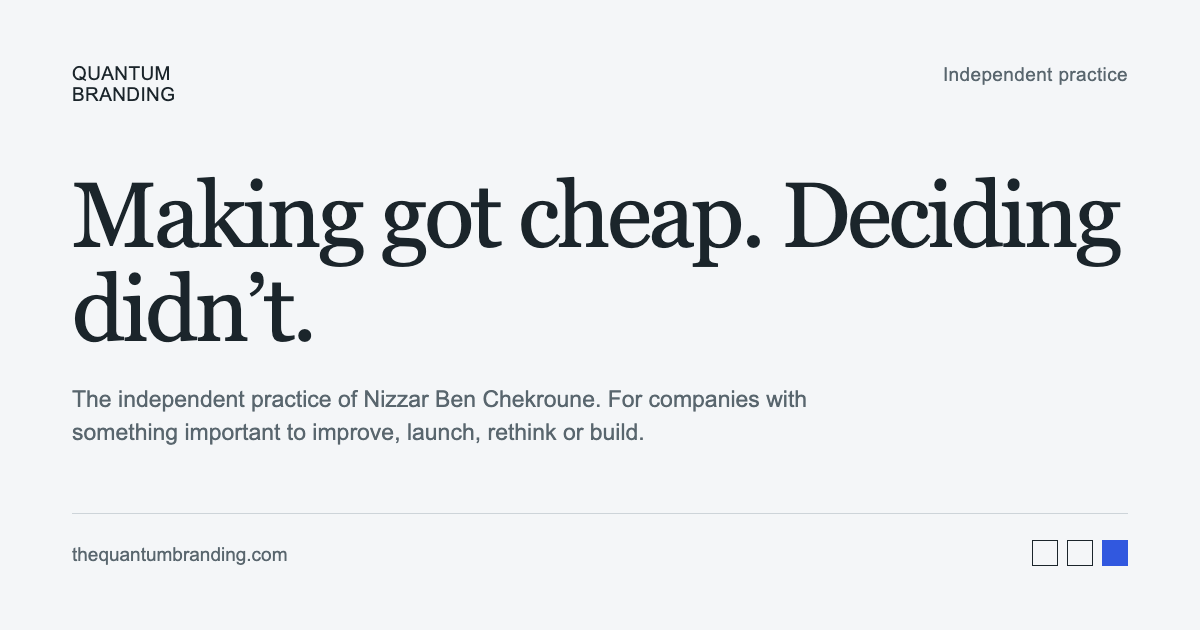
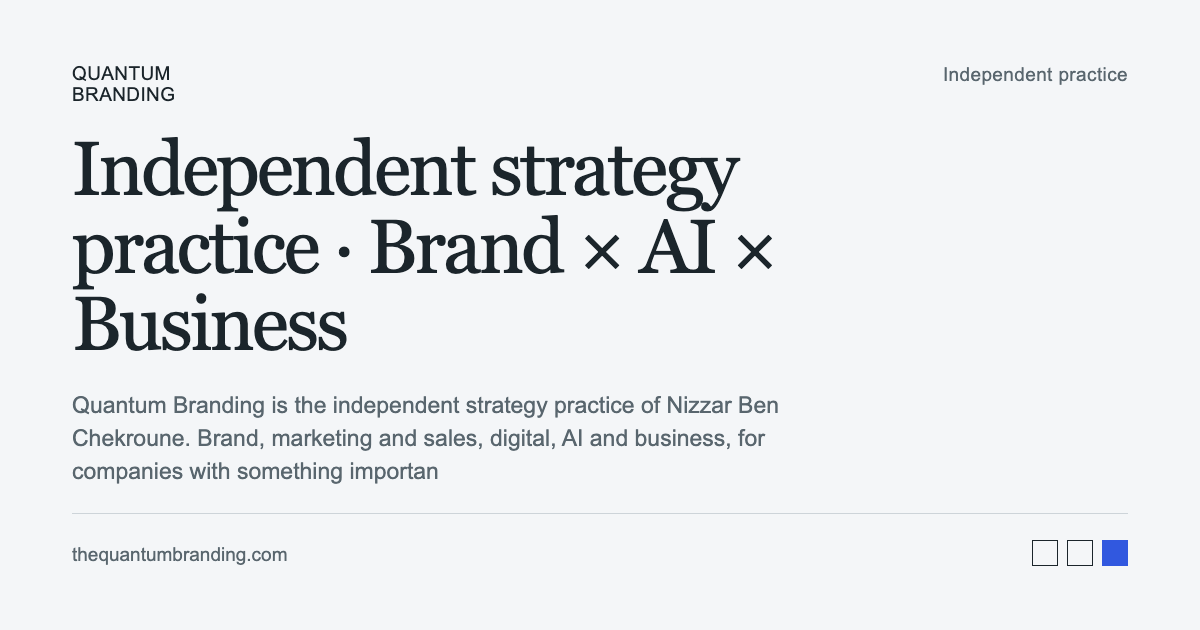
Homepage clarity pass: say what the practice is before the thesis
Owner brief, 3 October 2026. Clarity first, depth second.

Hero: "Quantum Branding · An independent strategy practice", "Strategy
across Brand × AI × Business.", the practice named as Nizzar Ben
Chekroune's, the value line (see what is true, decide what matters,
make it real), the five areas, then Start a project and See the work.

New order: hero, the six territories, selected work, the thesis
("Making got cheap. Deciding didn't."), How I work (The Collapse, with
the four panels moved here from the hero), Behind the practice (Nizzar,
then Perceptual Composition linking to nizzar.com), From the Lab
(BrandOS), Thinking, contact fork.

- /practice/method and /about each gain one sentence on Perceptual
  Composition and a link to the canonical page on nizzar.com.
- Organization and Person descriptions updated in the structured data.
- Home sharing images regenerated for the new title.
- Mobile: section headings with a standfirst no longer right-align.
- Tests lock the new hero hierarchy and homepage order; the motion test
  settles the scroll before measuring the panels in their new place.
- New editorial baseline editorial-2026-10-03-clarity.json. It also
  absorbs the owner-approved 27-29 Sept identity commits (#1, #4) that
  the 14 Sept baseline predated. The old fixture is kept as history.

Changed region(s): [[0.0617, 0.2111, 0.9558, 0.573], [0.0617, 0.6032, 0.6783, 0.7841]]

diff --git a/index.html b/index.html
@@ -3,8 +3,8 @@
 <head>
 <meta charset="utf-8">
 <meta name="viewport" content="width=device-width,initial-scale=1">
-<title>Quantum Branding — Making got cheap. Deciding didn’t.</title>
-<meta name="description" content="The independent practice of Nizzar Ben Chekroune. For companies with something important to improve, launch, rethink or build.">
+<title>Quantum Branding — Independent strategy practice · Brand × AI × Business</title>
+<meta name="description" content="Quantum Branding is the independent strategy practice of Nizzar Ben Chekroune. Brand, marketing and sales, digital, AI and business, for companies with something important to improve, launch, rethink or build.">
 <meta name="author" content="Nizzar Ben Chekroune">
 <meta name="theme-color" content="#f4f6f8">
 <link rel="canonical" href="https://thequantumbranding.com/">
@@ -13,20 +13,20 @@
 <link rel="alternate" hreflang="x-default" href="https://thequantumbranding.com/">
 <meta property="og:type" content="website">
 <meta property="og:site_name" content="Quantum Branding">
-<meta property="og:title" content="Quantum Branding — Making got cheap. Deciding didn’t.">
-<meta property="og:description" content="The independent practice of Nizzar Ben Chekroune. For companies with something important to improve, launch, rethink or build.">
+<meta property="og:title" content="Quantum Branding — Independent strategy practice · Brand × AI × Business">
+<meta property="og:description" content="Quantum Branding is the independent strategy practice of Nizzar Ben Chekroune. Brand, marketing and sales, digital, AI and business, for companies with something important to improve, launch, rethink or build.">
 <meta property="og:url" content="https://thequantumbranding.com/">
 <meta property="og:image" content="https://thequantumbranding.com/og/en-home.png">
 <meta property="og:image:width" content="1200">
 <meta property="og:image:height" content="630">
-<meta property="og:image:alt" content="Making got cheap. Deciding didn’t. · Quantum Branding">
+<meta property="og:image:alt" content="Independent strategy practice · Brand × AI × Business · Quantum Branding">
 <meta property="og:locale" content="en_US">
 <meta property="og:locale:alternate" content="fr_FR">
 <meta name="twitter:card" content="summary_large_image">
-<meta name="twitter:title" content="Quantum Branding — Making got cheap. Deciding didn’t.">
-<meta name="twitter:description" content="The independent practice of Nizzar Ben Chekroune. For companies with something important to improve, launch, rethink or build.">
+<meta name="twitter:title" content="Quantum Branding — Independent strategy practice · Brand × AI × Business">
+<meta name="twitter:description" content="Quantum Branding is the independent strategy practice of Nizzar Ben Chekroune. Brand, marketing and sales, digital, AI and business, for companies with something important to improve, launch, rethink or build.">
 <meta name="twitter:image" content="https://thequantumbranding.com/og/en-home.png">
-<meta name="twitter:image:alt" content="Making got cheap. Deciding didn’t. · Quantum Branding">
+<meta name="twitter:image:alt" content="Independent strategy practice · Brand × AI × Business · Quantum Branding">
 <link rel="icon" href="/favicon.svg" type="image/svg+xml">
 <link rel="preload" as="font" type="font/ttf" href="/assets/fonts/instrument-serif-latin-400-normal.ttf" crossorigin>
 <link rel="preload" as="font" type="font/ttf" href="/assets/fonts/dm-sans-latin-variable-normal.ttf" crossorigin>
@@ -34,7 +34,7 @@
 <link rel="stylesheet" href="/assets/visual-restoration.css">
 <link rel="stylesheet" href="/assets/kinetic.css">
 <link rel="stylesheet" href="/assets/studio.css">
-<script type="application/ld+json">{"@context":"https://schema.org","@graph":[{"@type":"Organization","@id":"https://thequantumbranding.com/#organization","name":"Quantum Branding","alternateName":"The Quantum Branding","description":"Independent founder-led practice of Nizzar Ben Chekroune across Brand × AI × Business.","foundingDate":"2024","url":"https://thequantumbranding.com","sameAs":["https://www.linkedin.com/company/thequantumbranding/"],"knowsAbout":["Brand & Positioning","Marketing & Sales","Digital & Experience","AI & Intelligent Systems","AI Training & Adoption","Business & Opportunity"],"email":"me@qtmbg.com","founder":{"@id":"https://nizzar.com/#person"},"knowsLanguage":["en","fr"],"slogan":"Making got cheap. Deciding didn’t."},{"@type":"Person","@id":"https://nizzar.com/#person","name":"Nizzar Ben Chekroune","alternateName":["Nizzar","thenizzar"],"jobTitle":"Brand Strategist","url":"https://nizzar.com","worksFor":{"@id":"https://thequantumbranding.com/#organization"},"sameAs":["https://www.linkedin.com/in/nizzar/","https://instagram.com/thenizzar","https://sessionize.com/nizzar/","https://www.imdb.com/name/nm8517643/"],"subjectOf":{"@type":"CreativeWork","url":"https://artsandculture.google.com/story/meet-the-judges-of-the-global-design-graduate-show-global-design-graduate-show/IAUxkXdAFpJIsA?hl=en"}},{"@type":"SoftwareApplication","@id":"https://quantumbranding.ai/#software","name":"BrandOS","alternateName":"BrandOS by Quantum Branding","applicationCategory":"BusinessApplication","operatingSystem":"Web","url":"https://quantumbranding.ai","publisher":{"@id":"https://thequantumbranding.com/#organization"}},{"@type":"WebPage","@id":"https://thequantumbranding.com/#page","name":"Making got cheap. Deciding didn’t.","headline":"Making got cheap. Deciding didn’t.","description":"The independent practice of Nizzar Ben Chekroune. For companies with something important to improve, launch, rethink or build.","url":"https://thequantumbranding.com/","inLanguage":"en","isPartOf":{"@type":"WebSite","@id":"https://thequantumbranding.com/#website","name":"Quantum Branding","url":"https://thequantumbranding.com"},"image":"https://thequantumbranding.com/og/en-home.png","publisher":{"@id":"https://thequantumbranding.com/#organization"}}]}</script>
+<script type="application/ld+json">{"@context":"https://schema.org","@graph":[{"@type":"Organization","@id":"https://thequantumbranding.com/#organization","name":"Quantum Branding","alternateName":"The Quantum Branding","description":"Independent strategy practice of Nizzar Ben Chekroune across Brand × AI × Business: brand and positioning, marketing and sales, digital and experience, AI, and business.","foundingDate":"2024","url":"https://thequantumbranding.com","sameAs":["https://www.linkedin.com/company/thequantumbranding/"],"knowsAbout":["Brand & Positioning","Marketing & Sales","Digital & Experience","AI & Intelligent Systems","AI Training & Adoption","Business & Opportunity"],"email":"me@qtmbg.com","founder":{"@id":"https://nizzar.com/#person"},"knowsLanguage":["en","fr"],"slogan":"Making got cheap. Deciding didn’t."},{"@type":"Person","@id":"https://nizzar.com/#person","name":"Nizzar Ben Chekroune","alternateName":["Nizzar","thenizzar"],"jobTitle":"Brand Strategist","description":"Brand Strategist and founder of Quantum Branding, working across Brand × AI × Business. His way of working is Perceptual Composition.","url":"https://nizzar.com","worksFor":{"@id":"https://thequantumbranding.com/#organization"},"sameAs":["https://www.linkedin.com/in/nizzar/","https://instagram.com/thenizzar","https://sessionize.com/nizzar/","https://www.imdb.com/name/nm8517643/"],"subjectOf":{"@type":"CreativeWork","url":"https://artsandculture.google.com/story/meet-the-judges-of-the-global-design-graduate-show-global-design-graduate-show/IAUxkXdAFpJIsA?hl=en"}},{"@type":"SoftwareApplication","@id":"https://quantumbranding.ai/#software","name":"BrandOS","alternateName":"BrandOS by Quantum Branding","applicationCategory":"BusinessApplication","operatingSystem":"Web","url":"https://quantumbranding.ai","publisher":{"@id":"https://thequantumbranding.com/#organization"}},{"@type":"WebPage","@id":"https://thequantumbranding.com/#page","name":"Independent strategy practice · Brand × AI × Business","headline":"Independent strategy practice · Brand × AI × Business","description":"Quantum Branding is the independent strategy practice of Nizzar Ben Chekroune. Brand, marketing and sales, digital, AI and business, for companies with something important to improve, launch, rethink or build.","url":"https://thequantumbranding.com/","inLanguage":"en","isPartOf":{"@type":"WebSite","@id":"https://thequantumbranding.com/#website","name":"Quantum Branding","url":"https://thequantumbranding.com"},"image":"https://thequantumbranding.com/og/en-home.png","publisher":{"@id":"https://thequantumbranding.com/#organization"}}]}</script>
 <script type="module" src="/app.js" defer></script>
 <script type="module" src="/assets/motion.mjs"></script>
 </head>
@@ -51,7 +51,7 @@
 </header>
 <main id="main">
 
-<section class="hero wrap"><h1>Making got cheap.<br><em>Deciding didn’t.</em></h1><p class="hero-description">For companies with something important to improve, launch, rethink or build.</p><a class="button" href="/start">Tell me what needs to change</a><div class="visual-scene process-gallery" aria-hidden="true"><div class="process-card process-0" data-process="0"><span class="process-index">01</span><div class="process-study"><div class="type-study"><span>Aa</span><span>Aa</span><span>Aa</span></div></div><span class="process-title">Observe</span><span class="process-arrow">↗</span></div><div class="process-card process-1 is-selected" data-process="1"><span class="process-index">02</span><div class="process-study"><div class="decision-study"><i style="--i:0"></i><i style="--i:1"></i><i style="--i:2"></i><i style="--i:3"></i><i style="--i:4"></i><i style="--i:5"></i><i style="--i:6"></i><i style="--i:7"></i><i style="--i:8"></i></div></div><span class="process-title">Collapse</span><span class="process-arrow">↗</span></div><div class="process-card process-2" data-process="2"><span class="process-index">03</span><div class="process-study"><div class="build-study"><i style="--i:0"></i><i style="--i:1"></i><i style="--i:2"></i><i style="--i:3"></i><i style="--i:4"></i><i style="--i:5"></i></div></div><span class="process-title">Build</span><span class="process-arrow">↗</span></div><div class="process-card process-3" data-process="3"><span class="process-index">04</span><div class="process-study"><div class="hold-study"><i style="--i:0"></i><i style="--i:1"></i><i style="--i:2"></i><i style="--i:3"></i><i style="--i:4"></i><i style="--i:5"></i><i style="--i:6"></i><i style="--i:7"></i></div></div><span class="process-title">Hold</span><span class="process-arrow">↗</span></div></div></section><figure class="collapse-stage wrap"><div class="collapse-geometry" aria-hidden="true"><span class="state s1"></span><span class="state s2"></span><span class="state s3"></span><span class="state s4"></span><span class="state chosen"></span></div><figcaption class="collapse-caption"><p>Many plausible directions. One deliberate choice. That passage has a name: Observe, Collapse, Build, Hold.</p><a class="text-link" href="/practice/method">The Collapse</a></figcaption></figure><section class="section wrap "><div class="split"><h2>Judgment, then execution.</h2><div class="prose"><p>I’m Nizzar. I connect patterns across brand, business and technology, choose a direction with you, then build what the decision requires.</p><p>I build with AI. Production is fast now. The question before production is worth more than it has ever been: what deserves to exist here.</p><p>Before you commit, your company is several plausible companies at once. The premium one. The playful one. The technical one. At 2am they all look right. The collapse is choosing one and holding it. The one that survives your market, your competitors and your own attention.</p><a class="text-link" href="/practice">How I work</a></div></div></section><section class="section wrap "><div class="section-heading"><h2>Decisions, made tangible.</h2><a class="text-link" href="/work">Explore the work</a></div><div class="case-grid"><a class="case-card" href="/work/selvaggi"><div class="case-art visual-selvaggi"><div class="case-decoration" aria-hidden="true"><span>S</span></div><span class="case-name">Selvaggi</span></div><div class="case-info"><p class="eyebrow">Brand · Digital · Commercial</p><h3>Selvaggi</h3><p>A contractor that builds inside working hospitals. The brand said none of it.</p><span class="text-link">Read the case ↗</span></div></a><a class="case-card" href="/work/verne-jewels"><div class="case-art visual-verne"><div class="case-decoration" aria-hidden="true"><i></i><i></i></div><span class="case-name">Verne Jewels</span></div><div class="case-info"><p class="eyebrow">Strategy · Jewelry</p><h3>Verne Jewels</h3><p>Beautiful images where you could not see the jewellery.</p><span class="text-link">Read the case ↗</span></div></a></div><p class="field-hint">A professional history beginning in 2008.</p><p>USAID · UNIDO · Audi · TV5 Monde · UM6P · The New York Times · TIME · Google Arts &amp; Culture · Los Angeles Lakers</p></section><section class="section wrap "><div class="section-heading"><h2>The Collapse</h2><p>A method for moving from plausible directions to a choice you can build and hold.</p></div><p class="eyebrow">OBSERVE. COLLAPSE. BUILD. HOLD.</p><div class="method-grid"><article><div class="method-mark mark-0" aria-hidden="true"><b>01</b><span></span><span></span><span></span></div><h3>Observe</h3><p>Look at what happens. Listen to customers, examine the work and separate evidence from assumptions.</p></article><article><div class="method-mark mark-1" aria-hidden="true"><b>02</b><span></span><span></span><span></span></div><h3>Collapse</h3><p>Choose the direction that deserves to exist. Make the trade-off explicit and agree on what success will look like.</p></article><article><div class="method-mark mark-2" aria-hidden="true"><b>03</b><span></span><span></span><span></span></div><h3>Build</h3><p>Turn the decision into something people can use: a brand, a website, a commercial system or a working tool.</p></article><article><div class="method-mark mark-3" aria-hidden="true"><b>04</b><span></span><span></span><span></span></div><h3>Hold</h3><p>Put the work in use. Watch what holds. Adjust what moves. Leave the team a basis for the next decision.</p></article></div><a class="text-link" href="/practice/method">Read the method</a></section><section class="section wrap "><div class="section-heading"><h2>Thinking that changes the work.</h2><a class="text-link" href="/thinking">All essays</a></div><div class="essay-list"><a href="/thinking/the-collapse"><article><span class="essay-number">01</span><h3>The Collapse</h3><p>Observe, Collapse, Build, Hold: a method for turning plausible directions into a decision a business can carry.</p><span class="text-link">Read the essay</span></article></a><a href="/thinking/the-brief-before-the-brief"><article><span class="essay-number">02</span><h3>The Brief Before the Brief</h3><p>The questions that should precede a request for a new identity, website, campaign or AI workflow.</p><span class="text-link">Read the essay</span></article></a></div></section><section class="section wrap "><a class="text-link" href="/start">See how engagements start ↗</a></section><section class="section wrap closing-fork"><div class="section-heading"><h2>What needs to change?</h2><p>Start with where you are. I will help define the next move.</p></div><div class="fork"><a class="fork-option" href="mailto:me@qtmbg.com"><h2>I know what I need.</h2><p>A clear project. Tell me the result, the scope and the timing.</p><span class="text-link">Tell me about your project</span></a><a class="fork-option" href="/start"><h2>Something needs to change.</h2><p>Describe what is happening. We can work out the right starting point together.</p><span class="text-link">Find my starting point</span></a></div></section>
+<section class="hero wrap"><p class="eyebrow hero-eyebrow">Quantum Branding · An independent strategy practice</p><h1>Strategy across<br><em>Brand × AI × Business.</em></h1><p class="hero-description">Quantum Branding is the independent practice of Nizzar Ben Chekroune. I help companies see what is true, decide what matters and make it real.</p><p class="hero-areas">Brand · Marketing &amp; Sales · Digital · AI · Business</p><a class="button" href="/start">Start a project</a><a class="button secondary" href="/work">See the work</a></section><section class="section wrap home-territories"><div class="section-heading"><h2>What I work on.</h2><p>Six areas. Most projects start in one and touch several.</p></div><div class="history-list"><article class="visual-territory"><div class="territory-object" aria-hidden="true"><span>01</span><i></i></div><h3>Brand & Positioning</h3><p>Choose the position, narrative and identity that express where the business is going.</p></article><article class="visual-territory"><div class="territory-object" aria-hidden="true"><span>02</span><i></i></div><h3>Marketing & Sales</h3><p>Clarify the offer and the path from interest to a commercial decision.</p></article><article class="visual-territory"><div class="territory-object" aria-hidden="true"><span>03</span><i></i></div><h3>Digital & Experience</h3><p>Build a website, journey or product around what people need to do.</p></article><article class="visual-territory"><div class="territory-object" aria-hidden="true"><span>04</span><i></i></div><h3>AI & Intelligent Systems</h3><p>Improve a workflow with an automation, an internal tool or a useful prototype.</p></article><article class="visual-territory"><div class="territory-object" aria-hidden="true"><span>05</span><i></i></div><h3>AI Training & Adoption</h3><p>Help leaders and teams make practical choices about AI in their own work.</p></article><article class="visual-territory"><div class="territory-object" aria-hidden="true"><span>06</span><i></i></div><h3>Business & Opportunity</h3><p>Investigate a market, a model or a possibility before committing resources.</p></article></div><a class="text-link" href="/practice">How the practice works</a></section><section class="section wrap "><div class="section-heading"><h2>Decisions, made tangible.</h2><a class="text-link" href="/work">Explore the work</a></div><div class="case-grid"><a class="case-card" href="/work/selvaggi"><div class="case-art visual-selvaggi"><div class="case-decoration" aria-hidden="true"><span>S</span></div><span class="case-name">Selvaggi</span></div><div class="case-info"><p class="eyebrow">Brand · Digital · Commercial</p><h3>Selvaggi</h3><p>A contractor that builds inside working hospitals. The brand said none of it.</p><span class="text-link">Read the case ↗</span></div></a><a class="case-card" href="/work/verne-jewels"><div class="case-art visual-verne"><div class="case-decoration" aria-hidden="true"><i></i><i></i></div><span class="case-name">Verne Jewels</span></div><div class="case-info"><p class="eyebrow">Strategy · Jewelry</p><h3>Verne Jewels</h3><p>Beautiful images where you could not see the jewellery.</p><span class="text-link">Read the case ↗</span></div></a></div><p class="field-hint">More than two decades across brand, marketing and emerging technology.</p><p>USAID · UNIDO · Audi · TV5 Monde · UM6P · The New York Times · TIME · Google Arts &amp; Culture · Los Angeles Lakers</p></section><section class="section wrap "><div class="split thesis"><h2>Making got cheap.<br><em>Deciding didn’t.</em></h2><div class="prose"><p>I build with AI. Production is fast now. The question before production is worth more than it has ever been: what deserves to exist here.</p><p>Before you commit, your company is several plausible companies at once. The premium one. The playful one. The technical one. At 2am they all look right. The collapse is choosing one and holding it. The one that survives your market, your competitors and your own attention.</p></div></div></section><section class="section wrap home-method"><div class="section-heading"><h2>How I work.</h2><p>The Collapse. A method for moving from plausible directions to a choice you can build and hold.</p></div><div class="method-stage"><div class="visual-scene process-gallery" aria-hidden="true"><div class="process-card process-0" data-process="0"><span class="process-index">01</span><div class="process-study"><div class="type-study"><span>Aa</span><span>Aa</span><span>Aa</span></div></div><span class="process-title">Observe</span><span class="process-arrow">↗</span></div><div class="process-card process-1 is-selected" data-process="1"><span class="process-index">02</span><div class="process-study"><div class="decision-study"><i style="--i:0"></i><i style="--i:1"></i><i style="--i:2"></i><i style="--i:3"></i><i style="--i:4"></i><i style="--i:5"></i><i style="--i:6"></i><i style="--i:7"></i><i style="--i:8"></i></div></div><span class="process-title">Collapse</span><span class="process-arrow">↗</span></div><div class="process-card process-2" data-process="2"><span class="process-index">03</span><div class="process-study"><div class="build-study"><i style="--i:0"></i><i style="--i:1"></i><i style="--i:2"></i><i style="--i:3"></i><i style="--i:4"></i><i style="--i:5"></i></div></div><span class="process-title">Build</span><span class="process-arrow">↗</span></div><div class="process-card process-3" data-process="3"><span class="process-index">04</span><div class="process-study"><div class="hold-study"><i style="--i:0"></i><i style="--i:1"></i><i style="--i:2"></i><i style="--i:3"></i><i style="--i:4"></i><i style="--i:5"></i><i style="--i:6"></i><i style="--i:7"></i></div></div><span class="process-title">Hold</span><span class="process-arrow">↗</span></div></div></div><p class="method-caption">Observe what happens. Collapse many plausible directions into one choice. Build what the decision requires. Hold it in use.</p><a class="text-link" href="/practice/method">Read the method</a></section><section class="section wrap "><div class="split"><h2>Behind<br>the practice.</h2><div class="prose"><p>I’m Nizzar Ben Chekroune, a brand strategist and the founder of Quantum Branding. I connect patterns across brand, business and technology, choose a direction with you, then build what the decision requires. You work directly with me.</p><p>The practice is informed by Perceptual Composition, my way of seeing what is true, deciding what matters and turning perception into form.</p><p class="triad" lang="en">See what is true.<br>Decide what matters.<br>Make it real.</p><p class="link-row"><a class="text-link" href="https://nizzar.com/perceptual-composition">Explore Perceptual Composition</a><a class="text-link" href="/about">About Nizzar</a></p></div></div></section><section class="section wrap "><div class="split"><h2>From<br>the Lab.</h2><div class="prose"><p>I also build instruments, in Quantum Lab. BrandOS is the main one: a brand intelligence product. Idea in, brand out.</p><p class="link-row"><a class="text-link" href="https://quantumbranding.ai">Explore BrandOS</a><a class="text-link" href="/lab">Visit the Lab</a></p></div></div></section><section class="section wrap "><div class="section-heading"><h2>Thinking that changes the work.</h2><a class="text-link" href="/thinking">All essays</a></div><div class="essay-list"><a href="/thinking/the-collapse"><article><span class="essay-number">01</span><h3>The Collapse</h3><p>Observe, Collapse, Build, Hold: a method for turning plausible directions into a decision a business can carry.</p><span class="text-link">Read the essay</span></article></a><a href="/thinking/the-brief-before-the-brief"><article><span class="essay-number">02</span><h3>The Brief Before the Brief</h3><p>The questions that should precede a request for a new identity, website, campaign or AI workflow.</p><span class="text-link">Read the essay</span></article></a></div></section><section class="section wrap closing-fork"><div class="section-heading"><h2>What needs to change?</h2><p>Start with where you are. I will help define the next move.</p></div><div class="fork"><a class="fork-option" href="mailto:me@qtmbg.com"><h2>I know what I need.</h2><p>A clear project. Tell me the result, the scope and the timing.</p><span class="text-link">Tell me about your project</span></a><a class="fork-option" href="/start"><h2>Something needs to change.</h2><p>Describe what is happening. We can work out the right starting point together.</p><span class="text-link">Find my starting point</span></a></div></section>
 </main>
 <footer class="site-footer">
 <p class="footer-author">Quantum Branding<br>Nizzar Ben Chekroune</p>

diff --git a/assets/studio.css b/assets/studio.css
@@ -128,3 +128,19 @@
  .process-card{transition:none!important}.process-gallery{cursor:default}
 }
 @media print{.process-gallery,.brief-preview,.signal-preview,.brand-preview{display:none!important}.hero{display:block}.method-mark b,.territory-object span{color:var(--ink)}.lab-card,.lab-card:first-child{background:none;color:var(--ink)}.lab-card .text-link{background:none}.hero h1{font-size:56pt}.wordmark-symbol{display:none}}
+/* October 3: clarity pass. The hero says what the practice is before any thesis or method. */
+.hero{grid-template-rows:auto auto auto auto;row-gap:18px}
+.hero .hero-eyebrow{grid-column:1/-1;grid-row:1;text-align:center;margin:0;font-size:14px;color:var(--muted)}
+.hero h1{grid-row:2}.hero h1 em{color:var(--blue)}
+.hero .hero-description{grid-column:1;grid-row:3;margin-top:22px}
+.hero .hero-areas{grid-column:1;grid-row:4;margin:0;font-size:15px;font-weight:500;letter-spacing:-.01em}
+.hero>.button{grid-column:2;grid-row:3;align-self:end;justify-self:end;margin-top:22px}
+.hero>.button.secondary{grid-row:4;align-self:start;margin-top:0;background:transparent;color:var(--ink);border:1px solid var(--ink)}
+.hero>.button.secondary:hover{background:var(--ink);color:var(--paper)}
+.thesis h2 em{font:inherit;color:var(--blue);letter-spacing:inherit}
+.method-stage .visual-scene.process-gallery{margin:10px 0 0}
+.method-caption{max-width:760px;margin:28px 0 22px;font-size:18px;line-height:1.55}
+.prose .triad{font:500 clamp(26px,2.4vw,34px)/1.2 var(--sans);letter-spacing:-.03em;margin:28px 0}
+.link-row{display:flex;flex-wrap:wrap;gap:14px 28px}
+@media(max-width:800px){.hero>.button{justify-self:start}.section-heading{align-items:flex-start}}
+@media(max-width:540px){.hero .hero-eyebrow{text-align:left;font-size:12px;margin:0 0 14px}.hero .hero-description{margin:22px 0 12px}.hero .hero-areas{font-size:14px;margin:0 0 20px}.hero>.button{align-self:flex-start}.hero>.button.secondary{margin-top:10px}.method-caption{font-size:16px}.prose .triad{font-size:26px}}

diff --git a/CLAUDE.md b/CLAUDE.md
@@ -3,6 +3,25 @@
 The practice website for Nizzar Ben Chekroune. Static, bilingual, generated
 from `src/` into `dist/`. Read `README.md` for the build and the file layout.
 
+## Homepage clarity pass, 3 October 2026 (owner brief)
+
+Clarity first, depth second. The homepage reads in this order and the tests lock it:
+1. Hero: what the practice is (independent strategy practice), the territory
+   (Brand × AI × Business), Nizzar named as the person behind it, the value line
+   ("I help companies see what is true, decide what matters and make it real"),
+   the five areas, then two actions (Start a project, See the work).
+2. The six territories. 3. Selected work and references.
+4. The thesis: "Making got cheap. Deciding didn't." It is the thesis, not the definition.
+5. How I work: The Collapse (Observe, Collapse, Build, Hold). The four expanding
+   panels now live here, not in the hero.
+6. Behind the practice: Nizzar, then Perceptual Composition as the background
+   intellectual layer, linking to https://nizzar.com/perceptual-composition.
+   Never present Perceptual Composition as a Quantum Branding method or merge it
+   with The Collapse. Its full text belongs on nizzar.com only.
+7. From the Lab: BrandOS. 8. Thinking. 9. Contact fork.
+The restoration fixture `editorial-2026-10-03-clarity.json` records this pass;
+`editorial-2026-09-14-career.json` stays as the historical baseline.
+
 ## Identité visuelle canonique
 
 ### Owner correction, 15 September 2026 — current direction
@@ -11,7 +30,7 @@ The owner rejected the circular blue sculpture and the old illustrated icons,
 and explicitly extended the Google Labs-inspired direction to every page family.
 `assets/studio.css` is now the last presentation layer. Do not restore the
 sculpture, cube, pictogram strip or logo symbol. The wordmark is typographic.
-The hero uses four expanding typographic panels; Lab products use typographic
+The four expanding typographic panels sit with the method on the homepage (moved from the hero on 3 October 2026); Lab products use typographic
 previews; method and territories use numerals. Case covers are flat compositions.
 Large sans-serif headings, generous spacing and direct pointer/touch response
 replace the prior decorative vocabulary. This supersedes the visual preservation

diff --git a/README.md b/README.md
@@ -4,7 +4,8 @@ Static, bilingual site for Nizzar Ben Chekroune’s independent practice.
 Every route is generated as plain HTML: no framework, no runtime dependency,
 no content injected after hydration.
 
-- **Positioning** — *Making got cheap. Deciding didn’t.* / *Créer coûte moins. Bien décider reste rare.*
+- **What it is** — an independent strategy practice, Brand × AI × Business, founded by Nizzar Ben Chekroune.
+- **Thesis** — *Making got cheap. Deciding didn’t.* / *Créer coûte moins. Bien décider reste rare.*
 - **Method** — The Collapse: Observe → Collapse → Build → Hold.
 - **Contact** — me@qtmbg.com. The first conversation is free; scope and price are defined after it. No prices appear on the site.
 - **Product** — the product at quantumbranding.ai is called **BrandOS by Quantum Branding**. This repository never touches it.
